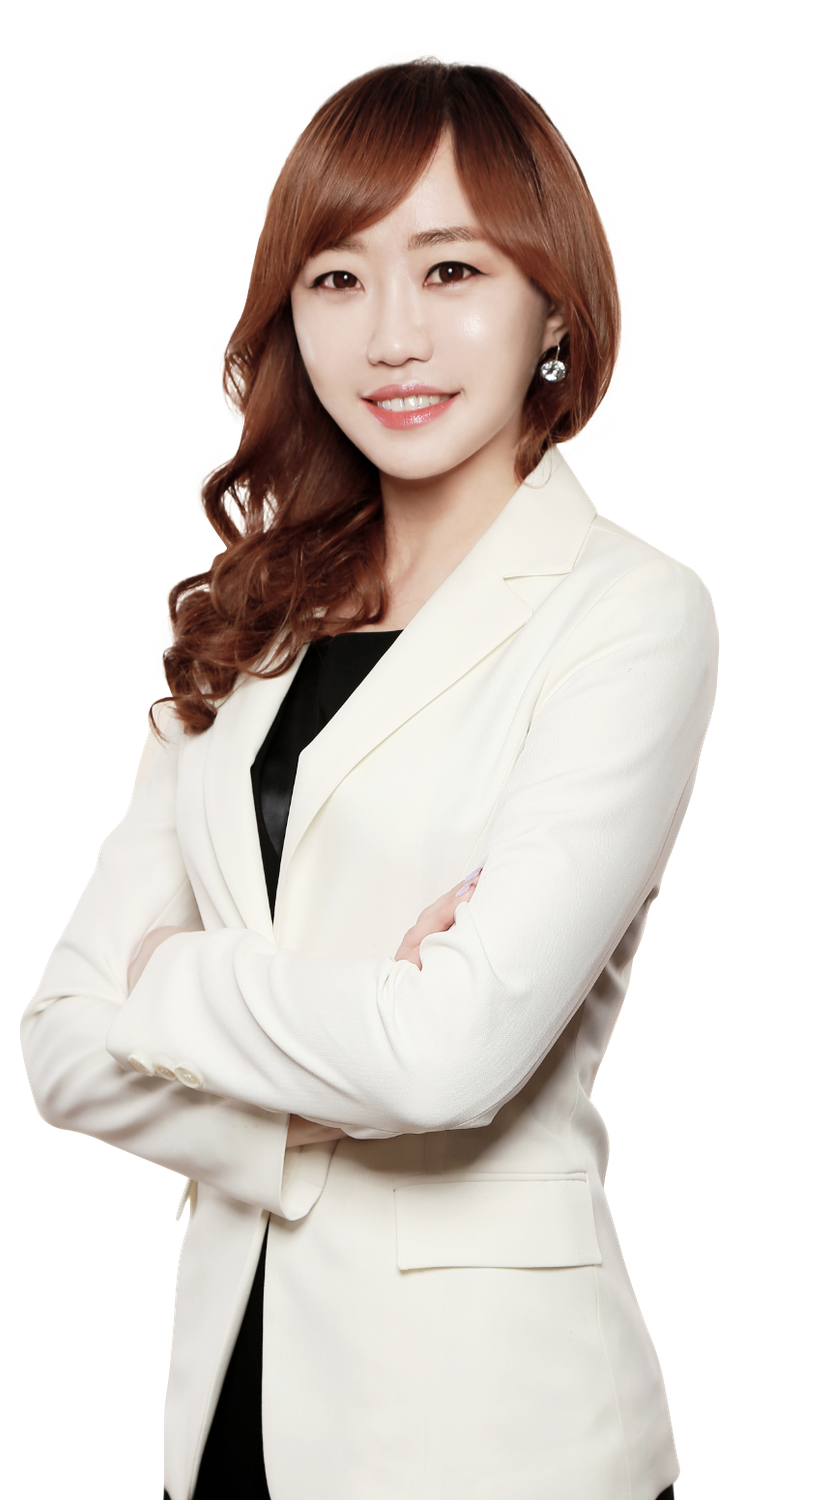
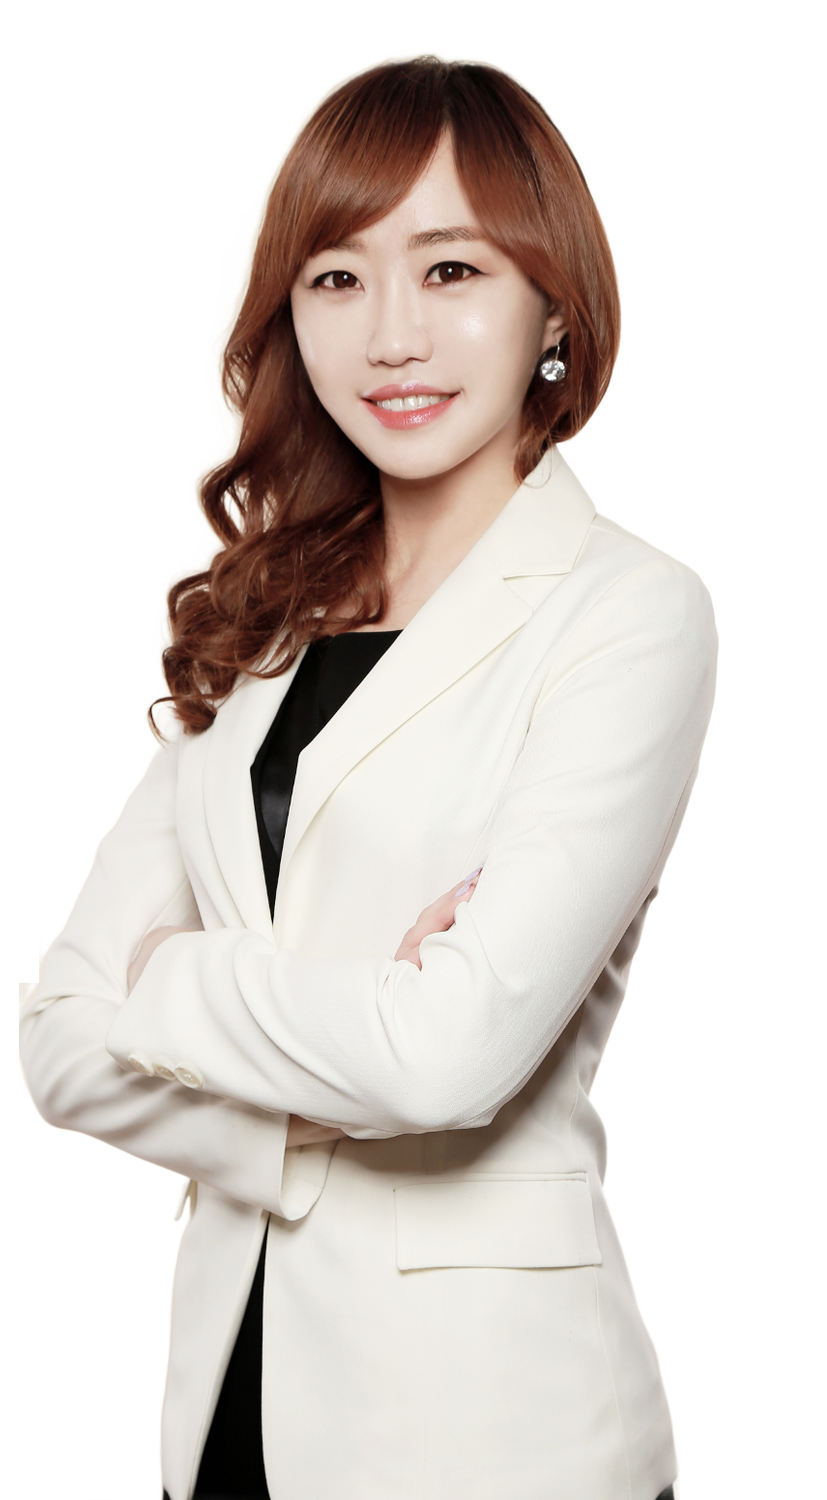
히어로 이혜영 누끼 다시 따기 — 정수리에 남은 옛 AI 머리 조각 제거 + 머리 가장자리 매끈하게 (Alan 2026-09-30)
- 원본 이혜영.png 컷은 머리 가장자리가 흐릿하고 흰색과 섞여 분홍 바탕에서 테두리가 보였다.
  알파 0 영역에 남은 스튜디오 배경으로 사진을 되살린 뒤 힉스필드 remove_background 로 다시 땄다
  (강사프로필/이혜영_누끼_2026-09-30.png). public/instructors/lee-hyeyoung.png 도 같은 컷으로 다시 맞췄다.
- 투샷 합성의 경계 탐색 버그: 두 머리 위쪽 줄에서 오른쪽 끝까지 열린 투명 틈을 틈으로 치지 않아
  옛 AI 이혜영 머리 조각이 이영수 층에 남았다 → 열린 틈도 닫아 계산하고, 이영수 층에 x<650 불투명 픽셀 0 을 확인.
- CLAUDE.md "히어로 강사 투샷" 에 이유와 확인 방법 기록.

diff --git a/CLAUDE.md b/CLAUDE.md
@@ -470,8 +470,13 @@ npx tsc --noEmit && npx eslint src && npx vitest run && npm run build
   (1620×1806, 투명 배경, 아래 12% 는 배경으로 녹아드는 페이드) 다. **왼쪽 이혜영은 실제 사진 그대로**(강사프로필 `이혜영.png`, 팔짱 컷)이고
   **오른쪽 이영수는 2026-09-17 힉스필드 투샷(`gpt_image_2_5` · 원본 두 장 `image_references`)의 엄지척 컷**을 남긴 것이다 —
   AI 가 그린 이혜영 얼굴이 실물과 달라 Alan 이 실사로 바꿨다. **다시 만들 때 이혜영을 AI 로 그리지 말 것** — 실사를 쓰라는 것이 요점이다.
-  sharp 로 합쳤다: 옛 투샷에서 줄마다 첫 분홍 픽셀(이영수 재킷) 왼쪽을 지워 이영수 층을 뽑고(머리 사이는 투명 틈의 가운데),
-  실사 이혜영을 머리 크기(393→445px)·얼굴 중심(x 470)에 맞춰 **앞에** 얹은 뒤 같은 구간(y 1560→1785)을 페이드했다. 이영수는 20px 오른쪽으로 밀어 어깨가 살짝 겹친다.
+  **원본 `이혜영.png` 의 누끼는 그대로 쓰지 않는다** (같은 날 Alan "머리카락 누끼가 제대로 안 따져서 이상하게 나와") — 원본 컷은 머리 가장자리가
+  12~16px 흐릿하고 흰색과 섞여 있어 분홍 바탕에서 테두리가 생긴다. 원본 PNG 의 알파 0 영역에 스튜디오 배경 픽셀이 남아 있어 알파를 버려 사진을 되살린 뒤
+  힉스필드 `remove_background` 로 다시 땄다 → `강사프로필/이혜영_누끼_2026-09-30.png` (같은 1200×1563 틀). `public/instructors/lee-hyeyoung.png` 도 이 컷으로 다시 맞췄다.
+  sharp 로 합쳤다: 옛 투샷에서 줄마다 이영수 층을 뽑고 — 두 사람 사이 **30px 이상의 투명 틈**의 가운데를 경계로 하되 **틈이 오른쪽 끝까지 열린 줄(두 머리 위쪽)도 틈으로 친다**
+  (안 그러면 머리카락 사이 미세한 빈틈을 경계로 잡아 옛 AI 머리 조각이 정수리에 남는다 — 첫 배포 688fb35 에서 실제로 그랬다), 틈이 없는 줄은 첫 분홍 픽셀(이영수 재킷) —
+  새 누끼 이혜영을 머리 크기(393→445px)·얼굴 중심(x 470)에 맞춰 **앞에** 얹은 뒤 같은 구간(y 1560→1785)을 페이드했다. 이영수는 20px 오른쪽으로 밀어 어깨가 살짝 겹친다.
+  확인은 이영수 층에 x<650 불투명 픽셀이 0 이어야 하고, 정수리·머리끝을 연분홍 위에 확대해 본다.
   **사이트에서 실사 강사 그림은 여기뿐이다** — 나머지는 전부 캐리커처 (아래 "강사 캐리커처").
   `이번 달 목표` 카드는 **왼쪽 아래**(페이드로 녹아드는 자리)에 둔다 — 두 분이 그림을 가득 채워 위쪽에 두면 머리를 가린다.
   힉스필드 결과 CDN(`d8j0ntlcm91z4.cloudfront.net`)은 세션에 따라 막혀 있기도 하다 — 2026-09-17 세션은 막혀 Alan 이 첨부해 줬고, 2026-09-30 세션은 받아졌다
